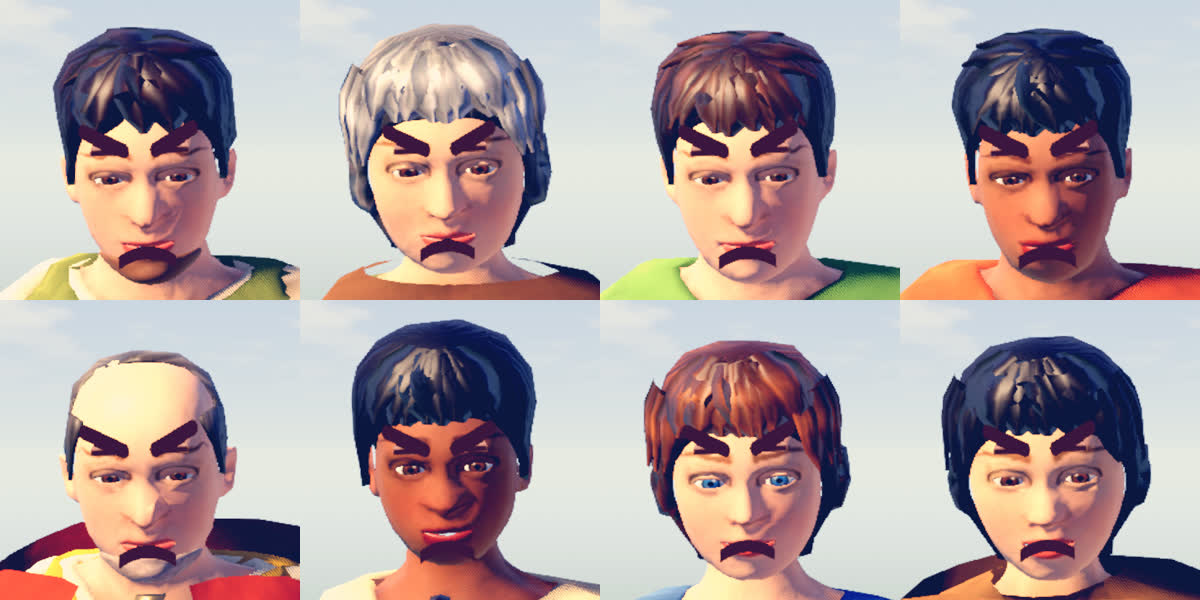
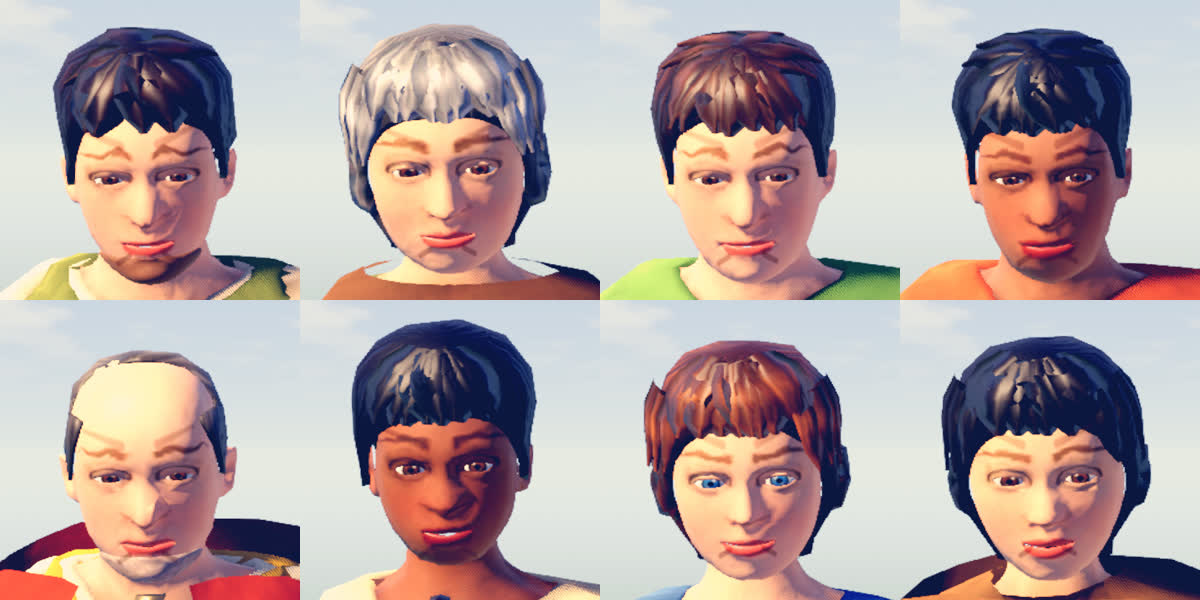
Faces: restyle to deviations-only (no marker doodles), per-look skin for blink caps
The card draws nothing at neutral with a closed mouth; soft brow shading wedges, open-mouth cavity, two corner marks,
skin-toned blink cap. Re-sheeted hero and villager images; FACES.md notes the unverified in-play capture.

diff --git a/docs/art/FACES.md b/docs/art/FACES.md
@@ -5,7 +5,10 @@ One state machine, two renderers, no new art assets.
 - `kingdom/scripts/living_world/face_state.gd` (`FaceState`): blink (2-6 s, 0.28 s, 20 % double), mouth flap while speaking (6-9 Hz), 6 moods
   (`neutral happy sad angry fear surprise`) eased in 0.25 s, `mood_for(act, town_mood, opinion, line_mood)`, `say_seconds(text)`, `cards_enabled(tier, renderer)`.
 - `kingdom/scripts/living_world/npc_face_card.gd` (`NpcFaceCard`): a 2-triangle quad on a `BoneAttachment3D("FaceCard")` on the Head bone that draws ink brows,
-  upper lids and a mouth (`shaders/npc/npc_face_card.gdshader`, shared drawing in `face_card_common.gdshaderinc`, timber ink 4a3220 in linear, unshaded, no shadow).
+  upper lids and a mouth (`shaders/npc/npc_face_card.gdshader`, shared drawing in `face_card_common.gdshaderinc`, unshaded, alpha-blended, no shadow).
+  **It draws only deviations from the painted face**: nothing at neutral with a closed mouth; a soft brow shading wedge (alpha <= 0.45, tilts with `brow`, darker when angry, lighter
+  when raised); an eyelid cap in the look's skin tone only for blinks (lids > 0.55, per-card `skin` from `face_offsets.json`); the open-mouth cavity (3a1a16, soft edge, scaled by `mouth_open`)
+  when `mouth_open` > 0.15; and two small corner marks (up = smile, down = frown) for a closed mouth.
   - **Villagers**: one shared material, per-instance uniforms (Mobile / Forward+ only). Created on MEDIUM+ with a non-Compatibility renderer, visible only while
     `lod_tier == 0` and inside 12 m. LOW creates nothing.
   - **Hero**: same card with its own material (`hero_face_card.gdshader`, plain uniforms, works in Compatibility), every tier, always visible. It draws the mouth only:
@@ -29,4 +32,10 @@ Hero: `tools_qa/hero/face_shots.gd` (moods, dialogue range, blink, talk, debug).
 
 Classes fitted so far: MakeHuman heads (all `villager_*`, elder, child, father, mother, player_young; also cdmir monk / old lady with a lower brow), G6 modular (`g6_*`, flat card at z 0.26:
 raised brows can hide behind the forehead, angry / frown / smile read), disabled: helmeted / armoured / hooded / masked looks, `villager_white_shirt`, `villager_hat`.
-Known gaps: brows of "happy/fear/surprise" on G6 faces are partly hidden by the receding forehead; the hero reads about 6/10 (mouth + brow nudge, small at dialogue range).
+Known gaps: expressions other than open mouth / blink are subtle by design (angry, sad and happy read mostly through the corner marks and a faint brow shade); brows of "happy/fear/surprise" on G6 faces are partly hidden by the receding forehead; the hero reads about 6/10 (mouth + brow nudge, small at dialogue range).
+
+## Not verified in play
+
+The plaza capture with the camera facing the nearest villagers (a `--view=faces` mode for `tools_qa/living_world/plaza_life.gd`) was attempted but not landed: the free camera rendered in the game's SubViewport
+but never showed a villager (the chase camera and the villager / camera placement are not understood), so chats flapping only during talk clips, the 12 m vanish and an in-dialogue capture are still unchecked in
+the real game. The card shots (`face_card_shots.gd`), hero shots (`face_shots.gd`) and the bench / boot runs are the evidence so far.
